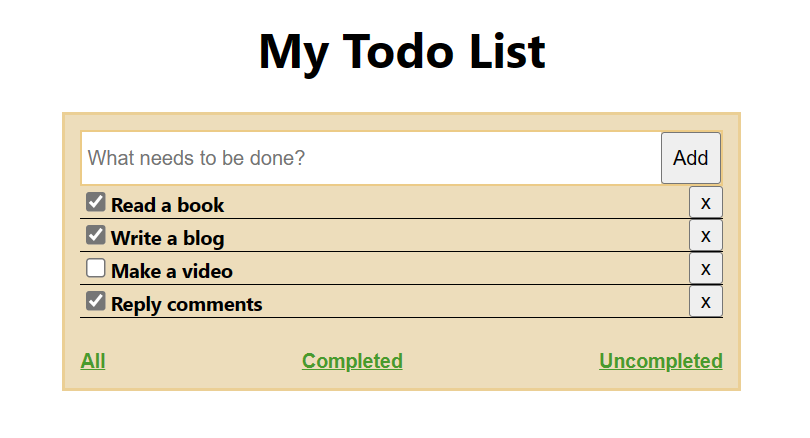
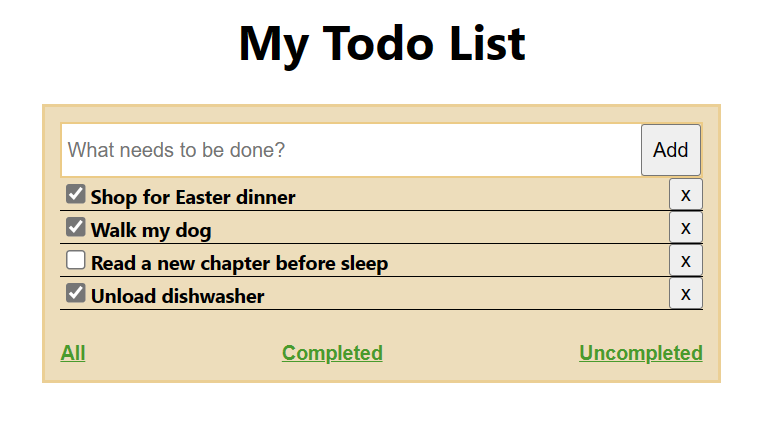
update initial todos

Changed region(s): [[0.0309, 0.2402, 0.9278, 0.9007], [0.3093, 0.06, 0.6804, 0.1801]]

diff --git a/src/App.js b/src/App.js
@@ -8,10 +8,10 @@ import NewTodo from './NewTodo';
 function App() {
   
   const [todos, setTodos] = useState([
-          {name:"Read a book", done:true,isdisplay:true},
-          {name:"Write a blog",done:true,isdisplay:true},
-          {name:"Make a video",done:false,isdisplay:true},
-          {name:"Reply comments",done:true,isdisplay:true}
+          {name:"Shop for Easter dinner", done:true,isdisplay:true},
+          {name:"Walk my dog",done:true,isdisplay:true},
+          {name:"Read a new chapter before sleep",done:false,isdisplay:true},
+          {name:"Unload dishwasher",done:true,isdisplay:true}
   ]);
   const [tempTodos, setTempTodos] = useState(todos);
 
